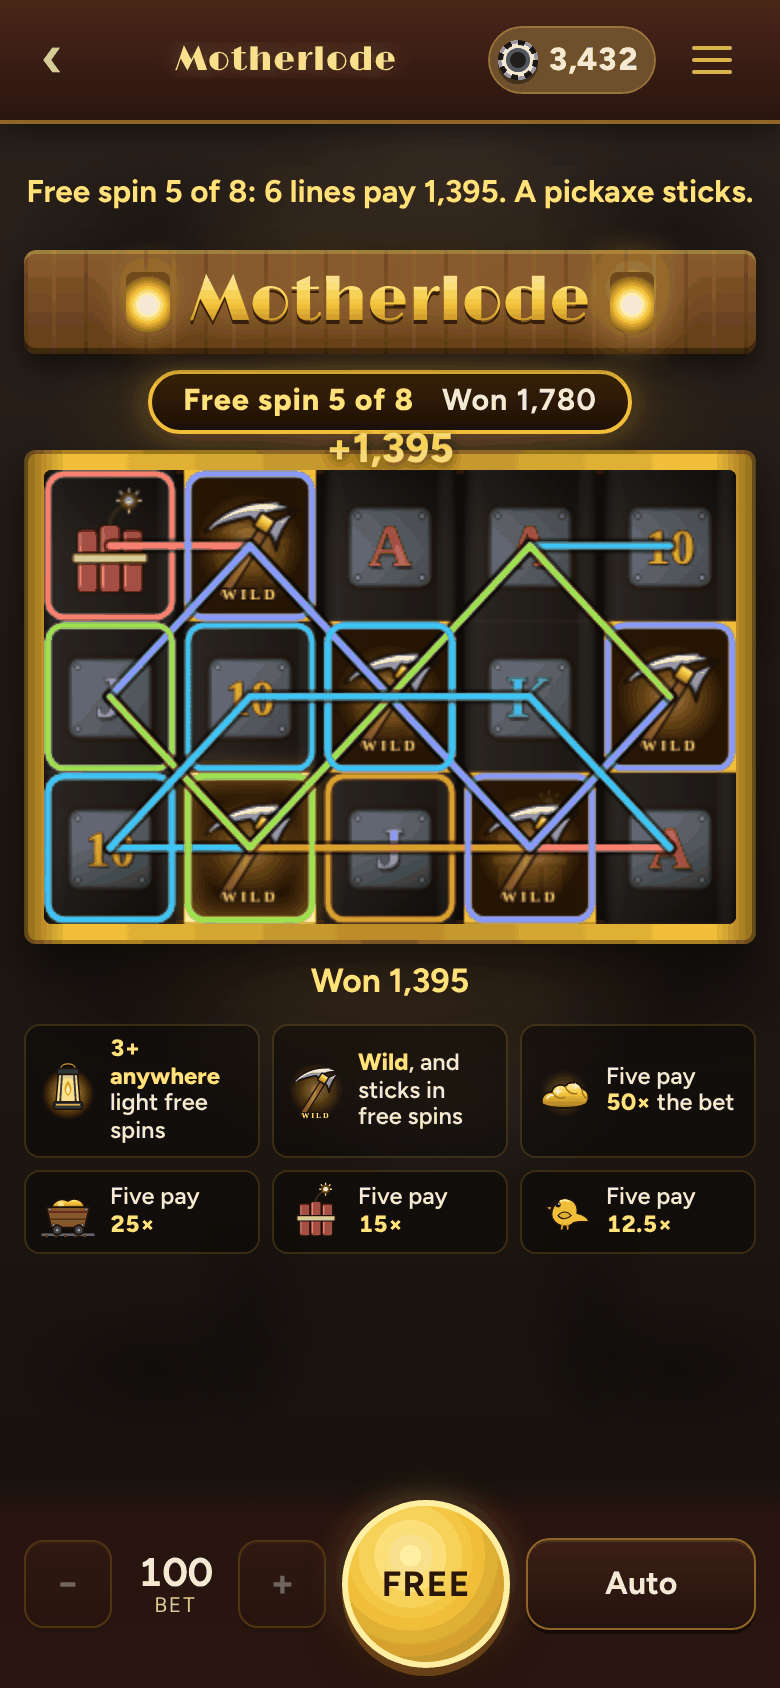
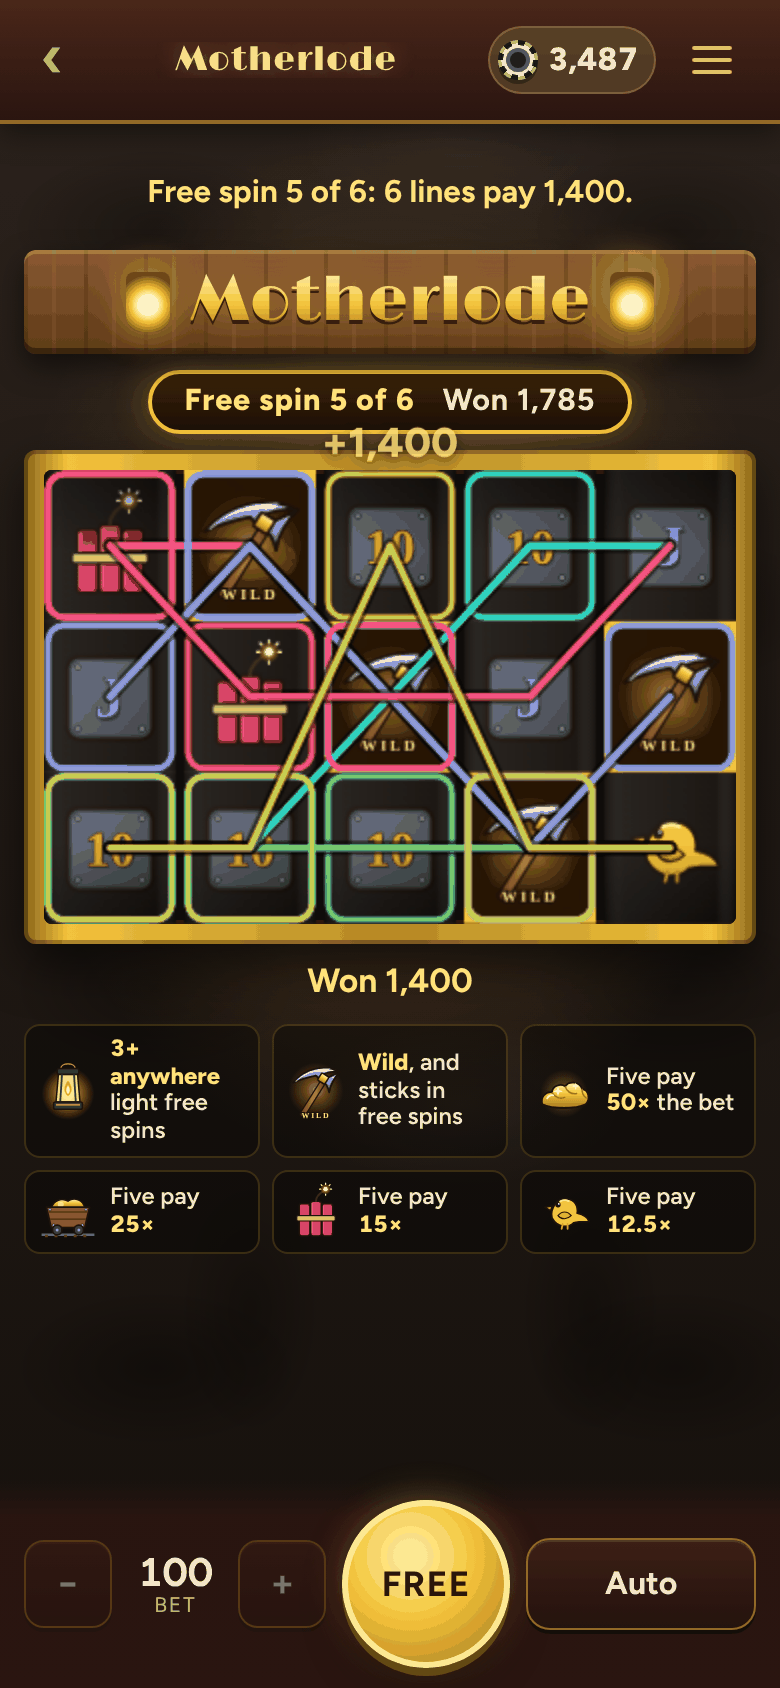
Motherlode's free spins come about once in 135 spins instead of 217, a little smaller
Half of all 1,000-chip stakes at 20 a spin ran dry without ever seeing the free spins. Reels 3 and 5 now carry two lanterns each, each reel has one plate or canary fewer (a king, a canary, a king, an ace and a ten), and three lanterns light 6 free spins instead of 8 (four and five still light 12 and 20). The free spins now come once in 134.7 spins and are worth 33.4 times the bet on average (58.3 before), and the machine still pays back 95.0%. The unit test now works the free spins out exactly too, as a chain over which cells hold a sticky pickaxe, and checks a long seeded run of them against it; the help sheet and README follow, and the README picture is retaken. In a run of 20,000 stakes, 65% now see free spins (48% before), and the median stake lasts 207 spins (177 before). This answers "Motherlode: half of 1,000-chip stakes never see the free spins".

Claude-Session: https://claude.ai/code/session_01PQbLNUqCq985TAYanzzHkW

diff --git a/motherlode/js/machine.js b/motherlode/js/machine.js
@@ -13,13 +13,15 @@ export const NAMES = {
   canary: 'Canary', A: 'A', K: 'K', Q: 'Q', J: 'J', ten: '10',
 };
 
+// Two lanterns on reels 3 and 5, one on the others, and one plate or canary fewer on each reel than the plain set, so
+// the lanterns come up about once in 135 spins.
 const LOW = { A: 5, K: 5, Q: 6, J: 6, ten: 6 };
 const COUNTS = [
-  { lantern: 1, nugget: 2, cart: 3, dynamite: 3, canary: 4, ...LOW },
-  { lantern: 1, pick: 3, nugget: 2, cart: 3, dynamite: 3, canary: 4, ...LOW },
-  { lantern: 2, pick: 3, nugget: 2, cart: 3, dynamite: 3, canary: 4, ...LOW },
-  { lantern: 1, pick: 3, nugget: 2, cart: 3, dynamite: 3, canary: 4, ...LOW },
-  { lantern: 1, pick: 3, nugget: 2, cart: 3, dynamite: 3, canary: 4, ...LOW },
+  { lantern: 1, nugget: 2, cart: 3, dynamite: 3, canary: 4, ...LOW, K: 4 },
+  { lantern: 1, pick: 3, nugget: 2, cart: 3, dynamite: 3, canary: 3, ...LOW },
+  { lantern: 2, pick: 3, nugget: 2, cart: 3, dynamite: 3, canary: 4, ...LOW, K: 4 },
+  { lantern: 1, pick: 3, nugget: 2, cart: 3, dynamite: 3, canary: 4, ...LOW, A: 4 },
+  { lantern: 2, pick: 3, nugget: 2, cart: 3, dynamite: 3, canary: 4, ...LOW, ten: 5 },
 ];
 export const REELS = COUNTS.map((c, i) => ({ strip: spread(c, 31 + i, { lantern: 4, pick: 3 }) }));
 export const ROWS = 3, ANCHOR = 0;
@@ -39,7 +41,7 @@ export const PAYS = {
 };
 // lanterns anywhere: times the whole bet, and the free spins they light
 export const SCATTER_PAYS = { 3: 2, 4: 10, 5: 50 };
-export const FREE_SPINS = { 3: 8, 4: 12, 5: 20 };
+export const FREE_SPINS = { 3: 6, 4: 12, 5: 20 };
 export const LINE_COUNT = LINES.length;
 
 const OPTS = { wild: WILD, not: [SCATTER] };
@@ -71,6 +73,6 @@ export function feature(count, rng = rand) {
   return units;
 }
 
-// Figured by test/slots.unit.test.mjs (exact for the lines and lanterns, and a long seeded run of free spins):
+// Figured by test/slots.unit.test.mjs (exact, the free spins too; the share of spins that win from a long seeded run):
 // the share of every chip bet that comes back, the share of spins that win something, and how often free spins come.
-export const RETURN = { rtp: 95.0, hit: 40.3, feature: 217 };
+export const RETURN = { rtp: 95.0, hit: 41.4, feature: 135 };

diff --git a/sw.js b/sw.js
@@ -8,7 +8,7 @@
 // fingerprint of every file in SHELL: change any of them and test/e2e.mjs fails until FILES is changed to match (it
 // says what to), which changes this file, so every copy is made whole again at once.
 const CACHE = 'house-money-v6'; // bump the number when the file list changes
-const FILES = 'd1cb48ea'; // test/e2e.mjs checks this
+const FILES = '179c957e'; // test/e2e.mjs checks this
 const SHELL = [
   './', 'baccarat/', 'blackjack/', 'cherry-bell/', 'craps/', 'motherlode/', 'odds-and-ends/', 'records/',
   'roulette/', 'video-poker/', '404.html', 'baccarat/css/baccarat.css', 'baccarat/index.html', 'baccarat/js/app.js',

diff --git a/README.md b/README.md
@@ -16,7 +16,7 @@
   &nbsp;
   <img src="docs/phone-video-poker.png" alt="Video Poker: a blue Jacks or Better screen with its pay table lit, the Four of a Kind row and the 125 for five coins in red, four kings held and FOUR OF A KIND! WIN 625" width="250">
   &nbsp;
-  <img src="docs/phone-motherlode.png" alt="Motherlode: free spin 5 of 8, five reels of gold-mine symbols with pickaxe wilds framed in gold where they've stuck, and coloured pay lines drawn across a win of 1,395" width="250">
+  <img src="docs/phone-motherlode.png" alt="Motherlode: free spin 5 of 6, five reels of gold-mine symbols with pickaxe wilds framed in gold where they've stuck, and coloured pay lines drawn across a win of 1,400" width="250">
 </p>
 <p align="center">
   <img src="docs/phone-cherry-bell.png" alt="Cherry Bell: a chrome three-reel machine under a red marquee, the pay table on the glass with the bells row lit, three bells on the pay line and 270 paid, with the red-balled handle at the side" width="250">
@@ -110,7 +110,7 @@ Jacks or Better on a full-pay machine: nine coins for a full house, six for a fl
 
 - **Five reels, three rows, twenty lines, down a gold mine.** Gold nuggets, mine carts, dynamite, canaries, and card ranks stamped on iron plates. Three, four or five of a kind pay from the left. The bet is spread over the lines, so it goes up in twenties.
 - **The pickaxe is wild** on reels 2 to 5.
-- **Lanterns light free spins.** Three, four or five lanterns anywhere pay 2, 10 or 50 times the bet and light 8, 12 or 20 free spins. Two lanterns already showing make the reels after them spin a moment longer.
+- **Lanterns light free spins.** Three, four or five lanterns anywhere pay 2, 10 or 50 times the bet and light 6, 12 or 20 free spins, about once in 135 spins. Two lanterns already showing make the reels after them spin a moment longer.
 - **In the free spins the pickaxes stick.** Every pickaxe that lands stays on the glass, framed in gold, until the spins are over, so they pile up. Free spins play by themselves at the bet that lit them, and carry on where they left off if you leave. When they're over, a card adds up what they paid, and the pickaxes come unstuck.
 - **Big wins rain coins.** At 15 times the bet it's a Big win, at 40 a Huge win, and at 100 the Motherlode. **Auto** keeps spinning until you tap it again (it says Stop while it runs), the chips run short, or a big win comes in (free spins that pay 15 times the bet count as one).
 - **The long run.** It pays back about 95.0%, more than a quarter of that from the free spins. About one spin in 2.5 wins.
